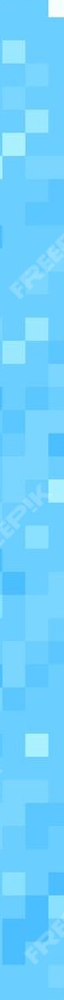
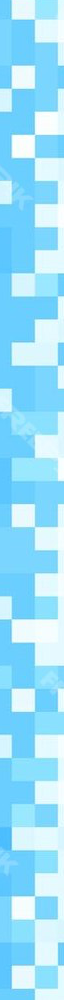
borders added and title added with css

diff --git a/script.js b/script.js
@@ -13,7 +13,22 @@ let backgroundImg = new Image();
 backgroundImg.onload = function (){
     backgroundReady = true;
 };
-backgroundImg.src = "images/backgroundSand2.png";
+backgroundImg.src = "images/backgroundSand4.png";
+//**********Border Image**********//
+//Top border//
+let borderTopReady = false;
+let borderTopImg = new Image();
+borderTopImg.onload = function(){
+    borderTopReady = true;
+};
+borderTopImg.src = "images/waterTB.png"
+//Side border//
+let borderSideReady = false;
+let borderSideImg = new Image();
+borderSideImg.onload = function(){
+    borderSideReady = true;
+};
+borderSideImg.src = "images/waterLR.png"
 //**********Character Image**********//
 let girlReady = false;
 let girlImg = new Image();
@@ -45,9 +60,18 @@ let main = function() {
 //**********To Render the Game**********/
 let render = function(){
     if (backgroundReady) {
-        console.log('here2');
         ctx.drawImage(backgroundImg,0,0);
     }
+    if (borderTopReady) {
+        ctx.drawImage(borderTopImg, 0,0);
+        ctx.drawImage(borderTopImg, 0,(1000-64));
+    }
+    if (borderSideReady) {
+        ctx.drawImage(borderSideImg, 0,0);
+        ctx.drawImage(borderSideImg, (1000-64),0);
+        
+    }
+
 };
 //**********To play the Game*********//
 let then = Date.now();

diff --git a/index.html b/index.html
@@ -1,11 +1,14 @@
 <!DOCTYPE html>
 <html lang="en">
     <head>
+        <link rel="stylesheet" href="style.css">
+        <link href="https://fonts.googleapis.com/css2?family=Comic+Neue:ital,wght@0,300;0,400;0,700;1,300;1,400;1,700&family=Cookie&display=swap" rel="stylesheet">
         <meta charset="UTF-8">
         <meta name="viewport" content="width=device-width, initial-scale=1.0">
         <title>At the Beach - Game</title>
     </head>
     <body>
+        <h1>At the Sea</h1>
         <script src="script.js"></script>
     </body>
 </html>

diff --git a/style.css b/style.css
@@ -1,0 +1,7 @@
+h1 {
+    text-align: center;
+    font-family: "Cookie", cursive;
+    font-weight: 400;
+    font-size: 100px;
+    font-style: normal;
+}
